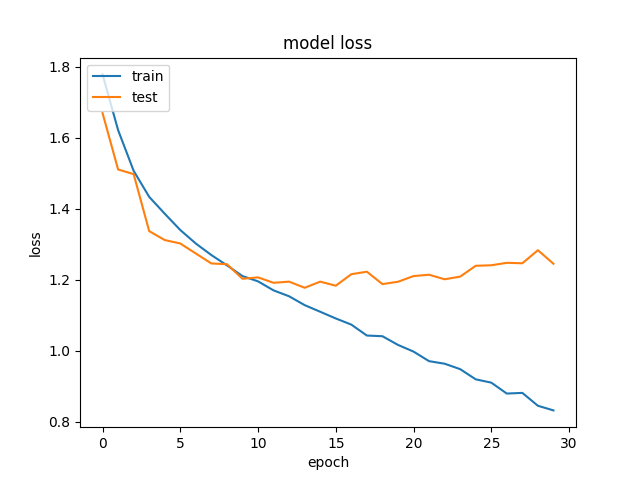
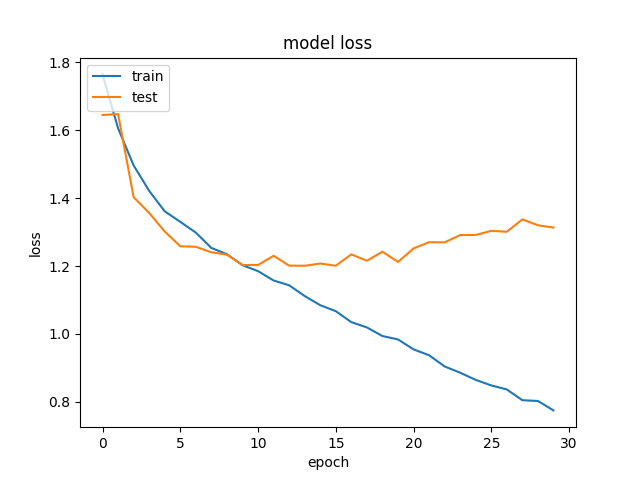
up

diff --git a/videoDetection/emotion_classifiers/classifiers/conv2dfer.py b/videoDetection/emotion_classifiers/classifiers/conv2dfer.py
@@ -121,7 +121,7 @@ cnn_history = model.fit(X_train, train_y,
           batch_size=batch_size,
           epochs=epochs,
           verbose=1,
-          validation_split = 0.33,
+          validation_split = 0.4,
           #validation_data=(X_test, test_y),
           shuffle=True)
 
@@ -144,17 +144,9 @@ plt.xlabel('epoch')
 plt.legend(['train', 'test'], loc='upper left')
 plt.savefig('accuracyConv2Fer.png')
 
-#validation loss and accuracy
-search_start = time.time()
-loss, accuracy = model.evaluate(X_test, test_y)
-search_end = time.time()
-elapsed_time = search_end - search_start
-print("Elapsed time (s): "+str(elapsed_time))
-print("Validation loss: " + str(loss) + "\nValidation accuracy: " + str(accuracy))
-
 #test loss and accuracy
 search_start = time.time()
-loss, accuracy = model.evaluate(X_priv, priv_y)
+loss, accuracy = model.evaluate(X_test, test_y)
 search_end = time.time()
 elapsed_time = search_end - search_start
 print("Elapsed time (s): "+str(elapsed_time))
@@ -162,8 +154,8 @@ print("Test loss: " + str(loss) + "\nTest accuracy: " + str(accuracy))
 
 #Saving the  model to  use it later on
 mod_json = model.to_json()
-with open("vidModelConv2Fer.json", "w") as json_file:
+with open("../../models/vidModelConv2Fer.json", "w") as json_file:
     json_file.write(mod_json)
-model.save_weights("vidModelWeightsConv2Fer.h5")
+model.save_weights("../../models/vidModelWeightsConv2Fer.h5")
 
 
